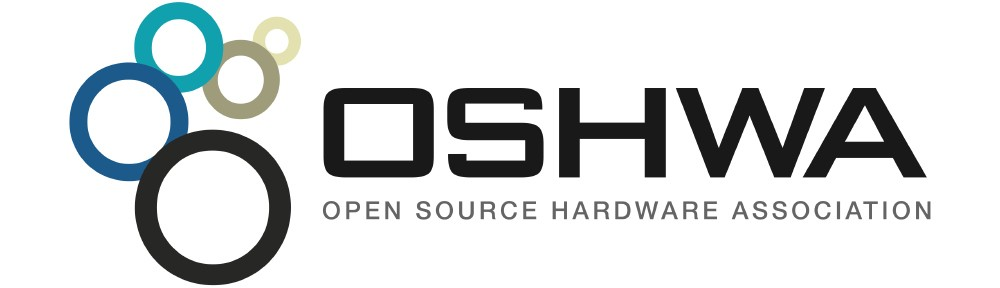
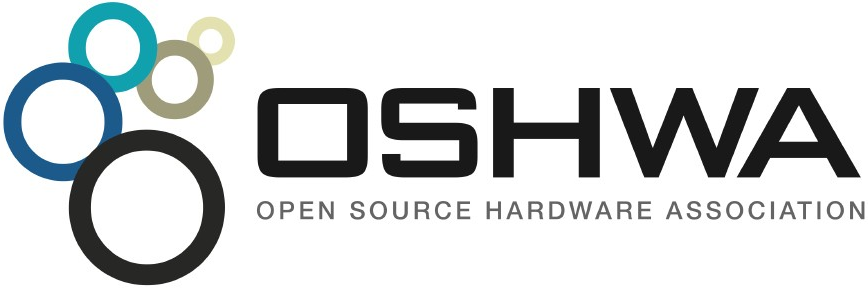
fixed footer responsive

Changed region(s): [[0.0, 0.0, 1.0, 1.0], [0.6221, 0.2812, 0.9954, 0.625], [0.4977, 0.2812, 0.591, 0.625]]

diff --git a/assets/_scss/breakpoints/_base.scss b/assets/_scss/breakpoints/_base.scss
@@ -1202,9 +1202,9 @@ FOOTER STYLES
 
       li{
 
-        float: center;
-        display: block;
 
+        float: left;
+        display: inline-block;
         .icon {
             font-size: 1.5rem;
             min-width: 0;
@@ -1392,7 +1392,10 @@ FOOTER STYLES
     display: block;
     position: relative;
     width: 100%;
+    img {
+      max-height: 100px;
 
+    }
     ul {
 
       display: inline-block;

diff --git a/member.html b/member.html
@@ -1,7 +1,6 @@
 ---
 layout: default
 ---
-
 <!-- member -->
 <div class="row ">
     <section class="section col-xs-24 blue first">

diff --git a/assets/_scss/breakpoints/_375up.scss b/assets/_scss/breakpoints/_375up.scss
@@ -33,3 +33,11 @@
     }
   }
 }
+.sponsors {
+
+    img {
+      max-height: 75px;
+
+    }
+
+}
